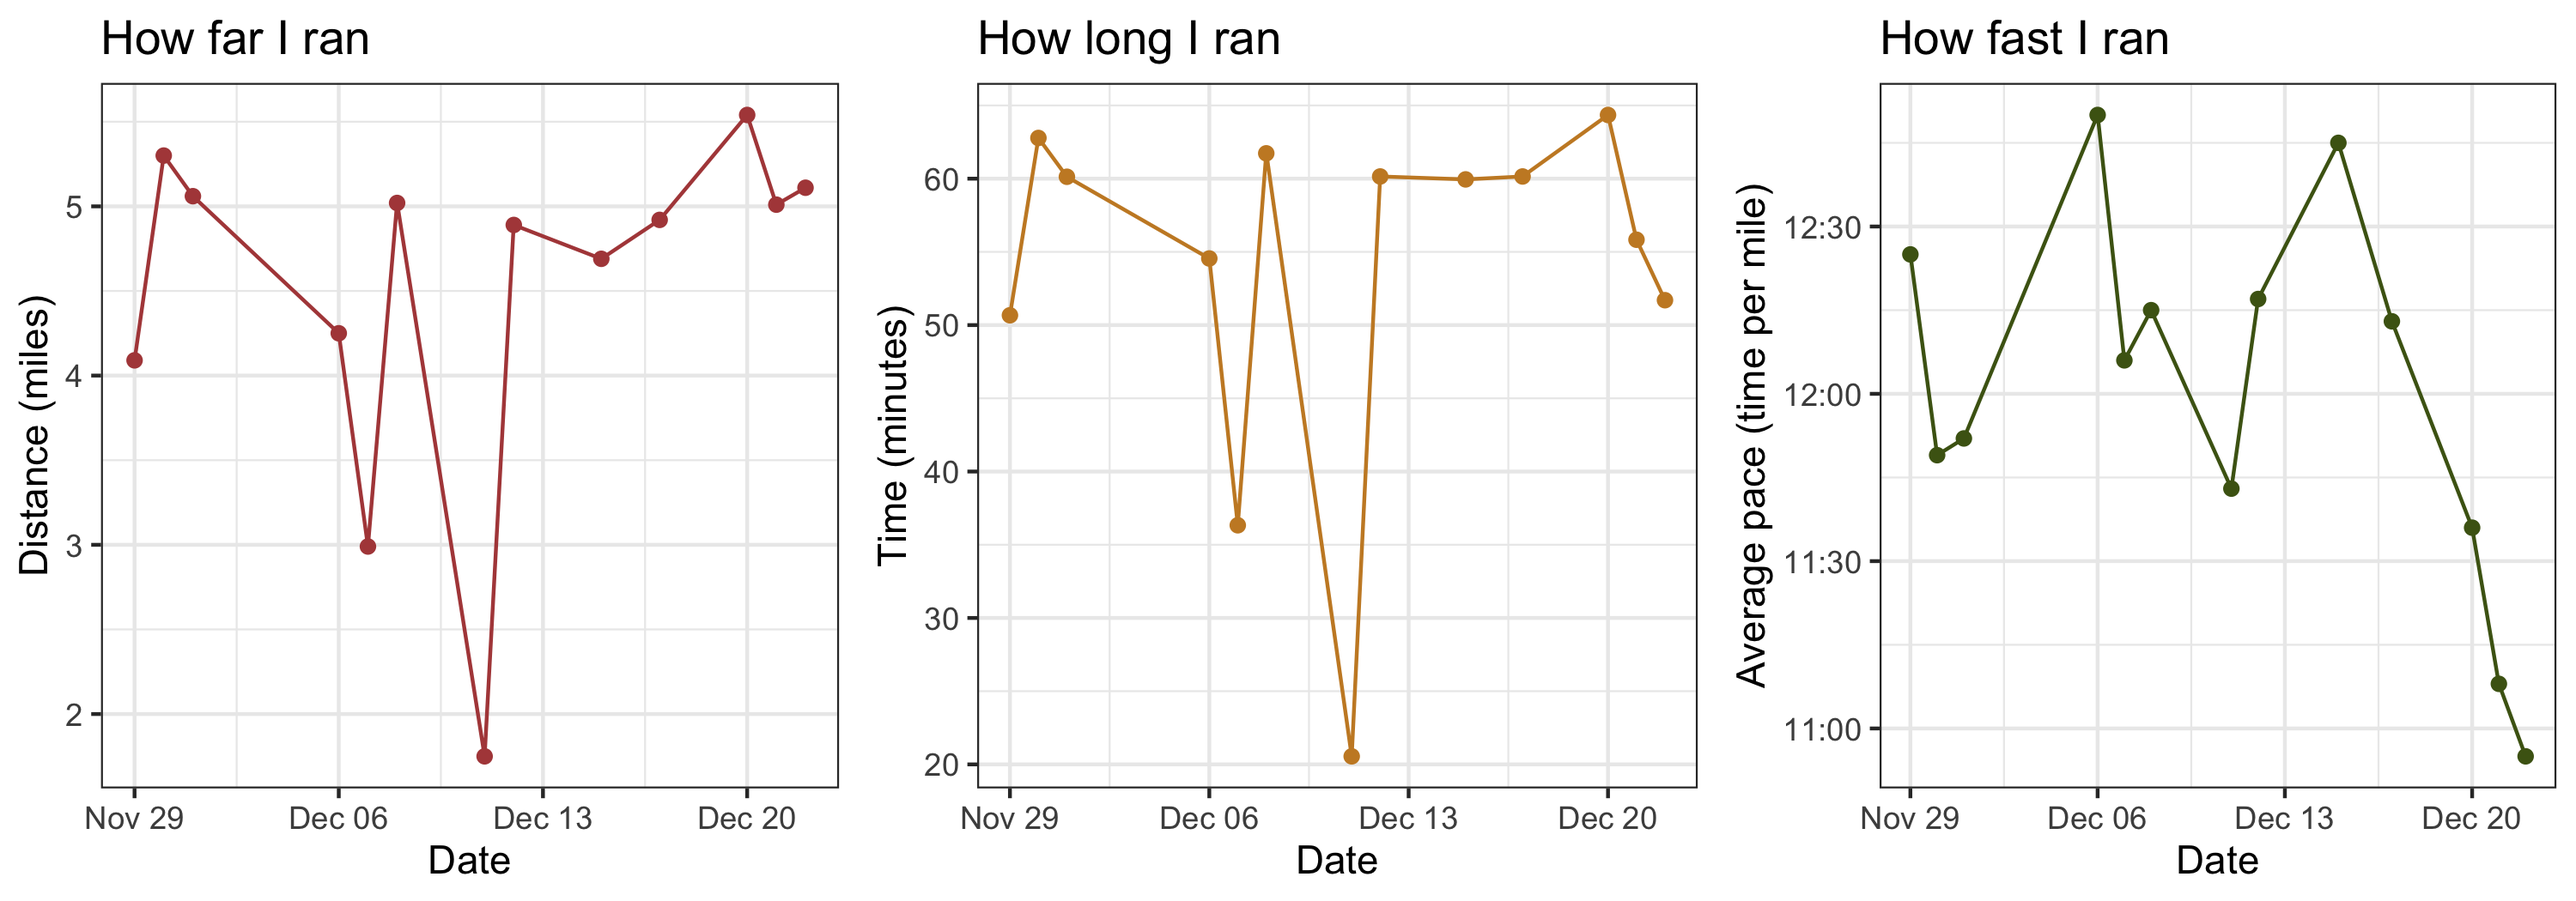
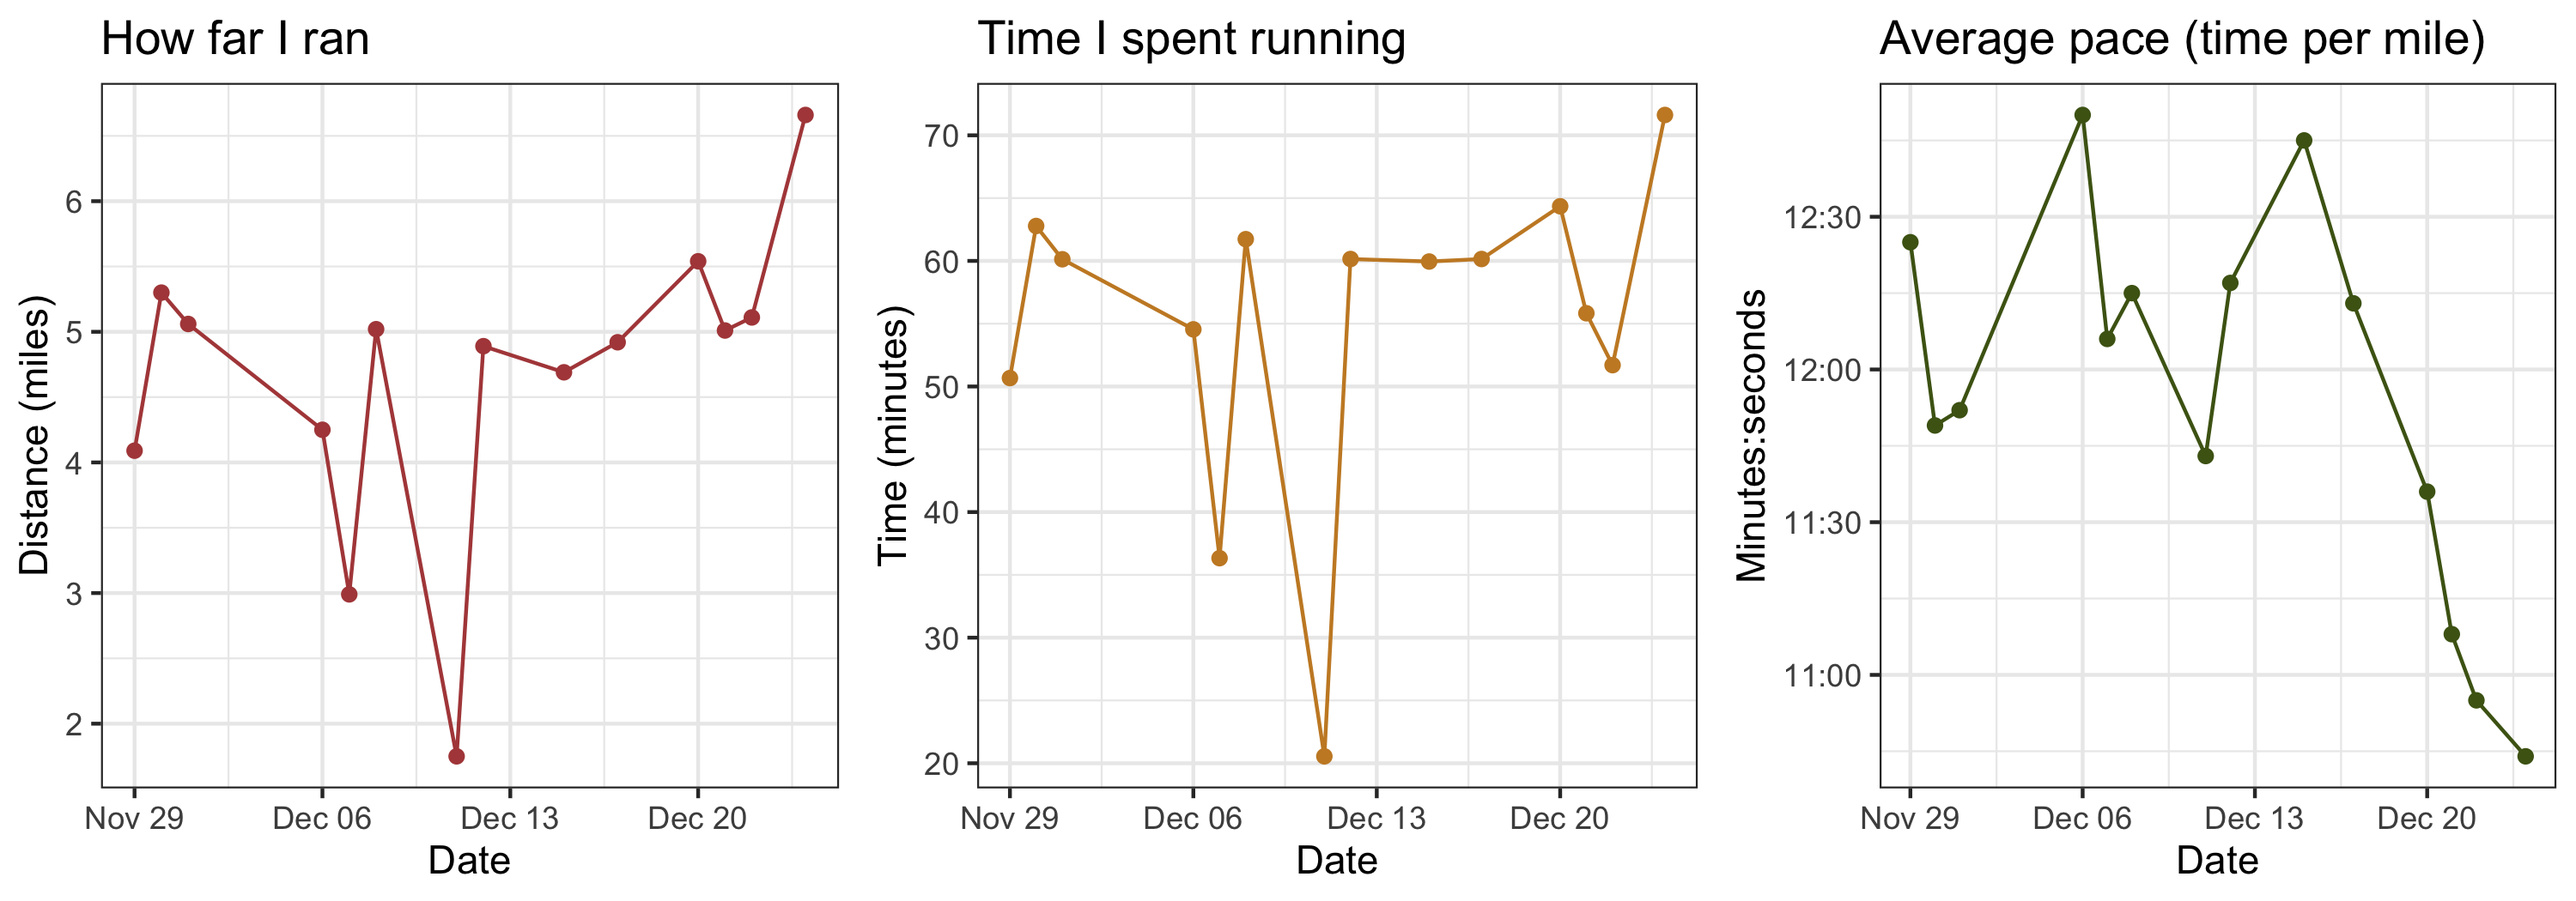
12/24/21

diff --git a/README.md b/README.md
@@ -1,4 +1,4 @@
-Sara’s Running Data
+Sara’s running data
 ================
 
 This repository stores `RunningData.csv`, in which I record information
@@ -16,11 +16,17 @@ runningData$Average_Pace <- as.POSIXct(runningData$Average_Pace, format="%M:%S")
 library(ggplot2); library(gridExtra); library(MetBrewer)
 plotColors <- met.brewer("Gauguin", 3)
 p1 <- ggplot(runningData, aes(x=Date, y=Miles)) + geom_point(color=plotColors[1]) + geom_line(color=plotColors[1]) + labs(y="Distance (miles)", title="How far I ran") + theme_bw()
-p2 <- ggplot(runningData, aes(x=Date, y=Time_Minutes)) + geom_point(color=plotColors[2]) + geom_line(color=plotColors[2]) + labs(y="Time (minutes)", title="How long I ran") + theme_bw()
-p3 <- ggplot(runningData, aes(x=Date, y=Average_Pace)) + geom_point(color=plotColors[3]) + geom_line(color=plotColors[3]) + labs(y="Average pace (time per mile)", title="How fast I ran") + scale_y_datetime(date_labels="%M:%S") + theme_bw()
+p2 <- ggplot(runningData, aes(x=Date, y=Time_Minutes)) + geom_point(color=plotColors[2]) + geom_line(color=plotColors[2]) + labs(y="Time (minutes)", title="Time I spent running") + theme_bw()
+p3 <- ggplot(runningData, aes(x=Date, y=Average_Pace)) + geom_point(color=plotColors[3]) + geom_line(color=plotColors[3]) + labs(y="Minutes:seconds", title="Average pace (time per mile)") + scale_y_datetime(date_labels="%M:%S") + theme_bw()
 grid.arrange(p1, p2, p3, nrow=1)
 ```
 
 ![](Plots/README-Running-Plots-1.png)<!-- -->
 
-I know I’m not very fast but I’m trying…
+Total miles since 11/29/21:
+
+``` r
+sum(runningData$Miles)
+```
+
+    ## [1] 65.28
